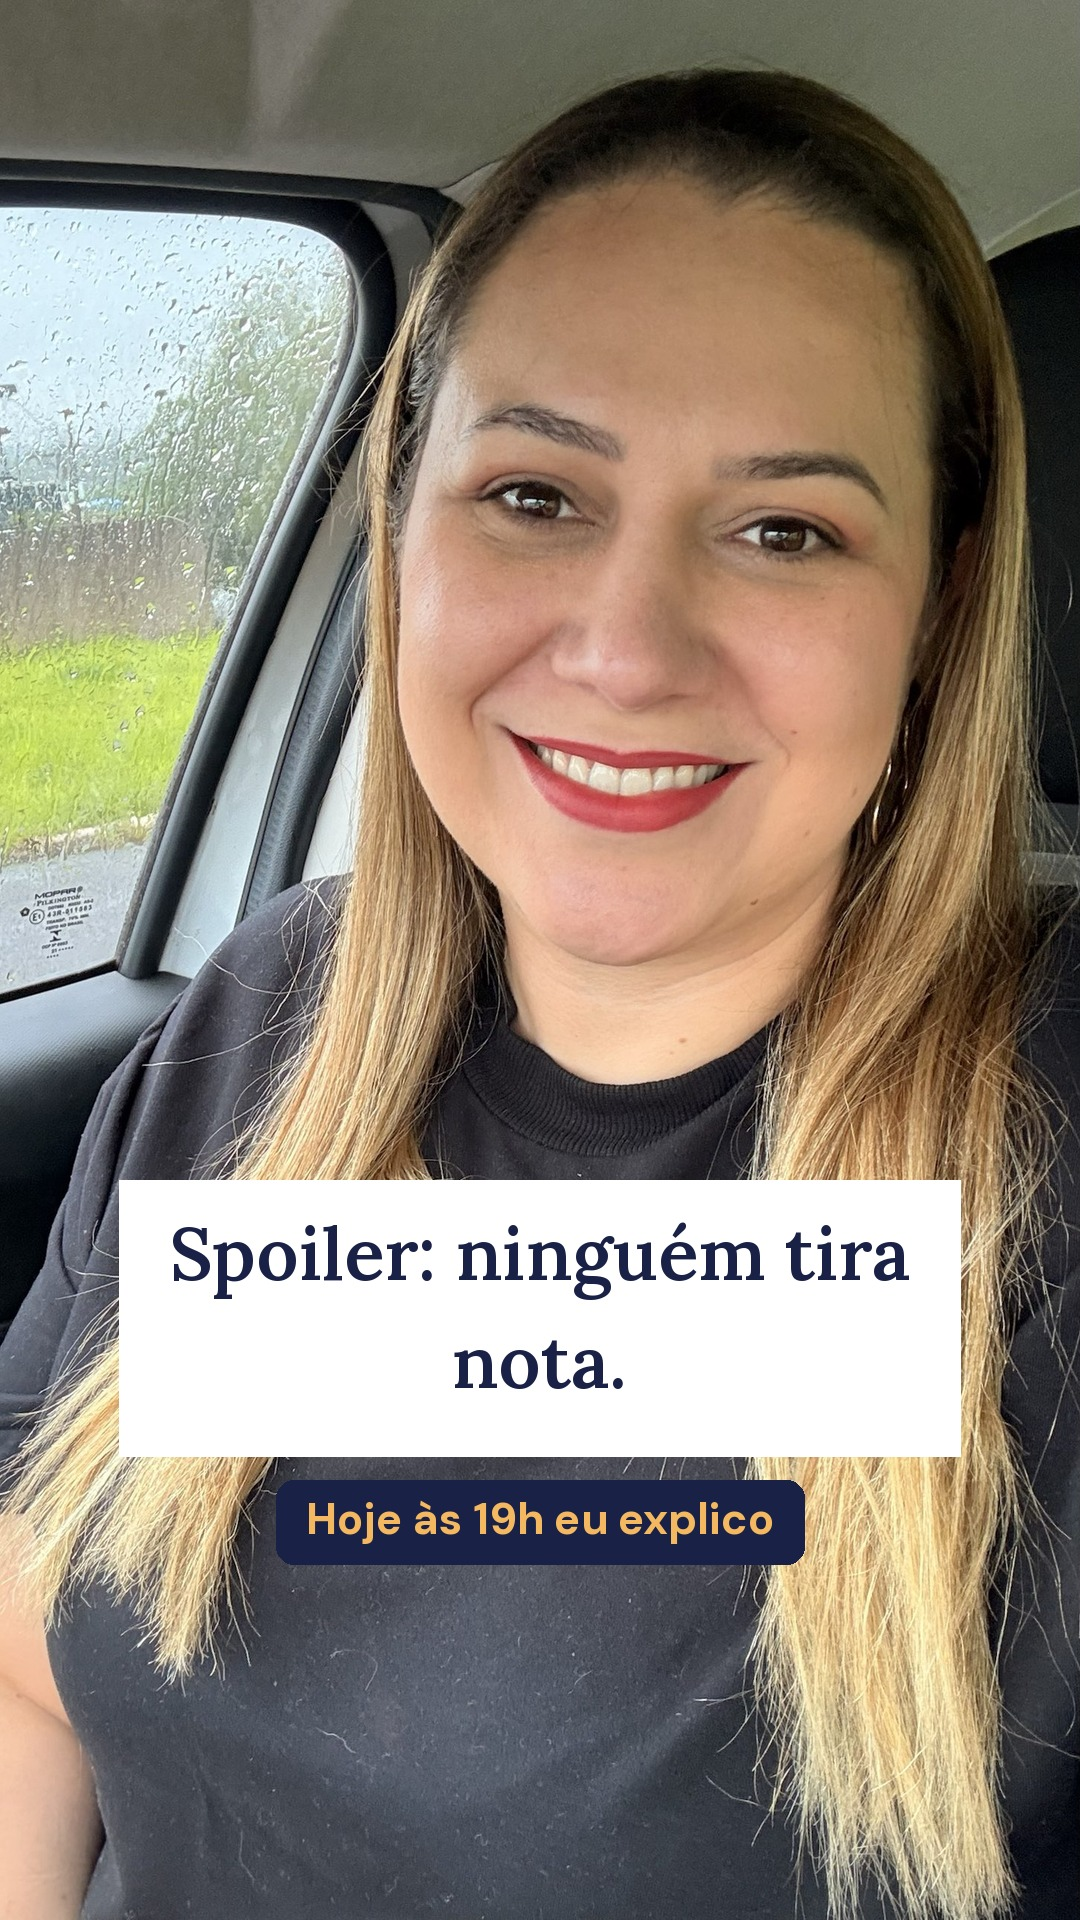
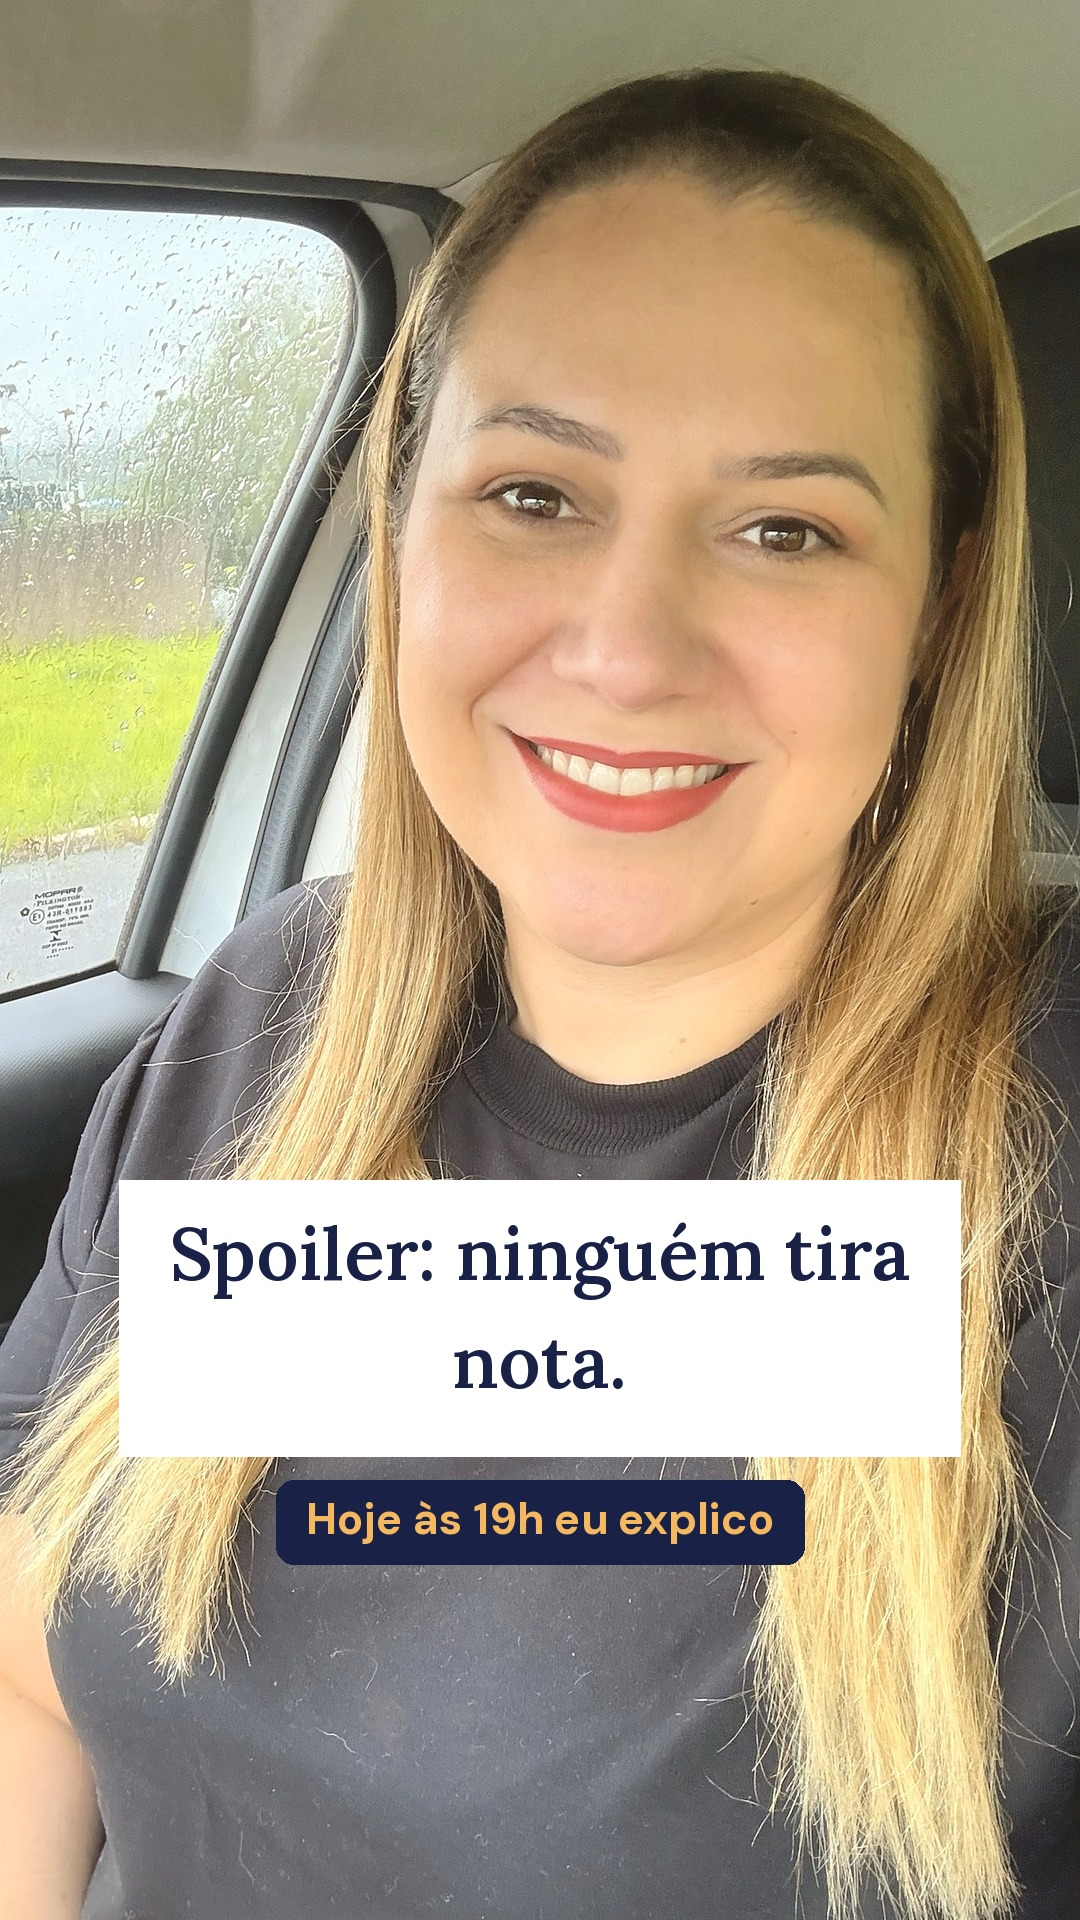
Fotos pessoais editadas, artes da manhã refeitas e passo a passo por dia
Claude-Session: https://claude.ai/code/session_01VWHfjDu9FDnoWU6tMJnwXm

diff --git a/stories-26-11/scripts/editar_fotos.py b/stories-26-11/scripts/editar_fotos.py
@@ -1,0 +1,30 @@
+# Edição das fotos pessoais (JPEG do iPhone): exposição automática, pele uniforme, brilho quente, nitidez.
+# Uso: python3 -I editar_fotos.py PASTA_ENTRADA PASTA_SAIDA
+import sys, os, glob, numpy as np, cv2
+from PIL import Image, ImageOps
+IN, OUT = sys.argv[1:3]; os.makedirs(OUT, exist_ok=True)
+def edit(rgb):
+    u8 = rgb.copy()
+    lab = cv2.cvtColor(u8, cv2.COLOR_RGB2LAB).astype(np.float32); L = lab[..., 0] / 255
+    g = np.clip(np.log(0.56) / np.log(max(np.median(L), 0.05)), 0.7, 1.1)    # leva o meio-tom para ~56%
+    L = L ** g
+    L = L + 0.10 * (1 - L) ** 3                                              # abre sombras (rosto)
+    L = 0.5 + (L - 0.5) * 1.05
+    lab[..., 0] = np.clip(L * 255, 0, 255)
+    lab[..., 1] = (lab[..., 1] - 128) * 0.95 + 128.5                         # pele menos avermelhada
+    lab[..., 2] = (lab[..., 2] - 128) * 1.05 + 133                           # tom mais quente
+    u8 = cv2.cvtColor(np.clip(lab, 0, 255).astype(np.uint8), cv2.COLOR_LAB2RGB)
+    # pele: separação de frequências (suaviza manchas, mantém textura fina)
+    f = u8.astype(np.float32); low = cv2.bilateralFilter(u8, 15, 35, 15).astype(np.float32)
+    detail = f - cv2.GaussianBlur(f, (0, 0), 1.2)
+    f = 0.55 * f + 0.45 * (low + detail * 0.8)
+    # brilho suave (glow) nas luzes
+    glow = cv2.GaussianBlur(f, (0, 0), 25); f = 255 - (255 - f) * (255 - glow * 0.18) / 255
+    u8 = np.clip(f, 0, 255).astype(np.uint8)
+    hsv = cv2.cvtColor(u8, cv2.COLOR_RGB2HSV).astype(np.float32); s = hsv[..., 1] / 255
+    hsv[..., 1] = np.clip((s + 0.12 * s * (1 - s)) * 255, 0, 255)
+    u8 = cv2.cvtColor(hsv.astype(np.uint8), cv2.COLOR_HSV2RGB)
+    return cv2.addWeighted(u8, 1.35, cv2.GaussianBlur(u8, (0, 0), 1.4), -0.35, 0)
+for p in sorted(glob.glob(f"{IN}/*.jpg")):
+    im = ImageOps.exif_transpose(Image.open(p)).convert("RGB")
+    Image.fromarray(edit(np.asarray(im))).save(f"{OUT}/{os.path.basename(p)}", quality=95)

diff --git a/stories-26-11/scripts/stories_manha.py b/stories-26-11/scripts/stories_manha.py
@@ -11,7 +11,7 @@ def wrap(f, txt, w):
         else: cur = t
     return L + [cur]
 def story(src, txt, sub, out, y, cx=0.5):
-    im = ImageOps.fit(ImageOps.exif_transpose(Image.open(f"{W}/pessoais/{src}")).convert("RGB"), (1080, 1920), centering=(cx, 0.5), method=Image.LANCZOS)
+    im = ImageOps.fit(ImageOps.exif_transpose(Image.open(f"{W}/pessoais_editadas/{src}")).convert("RGB"), (1080, 1920), centering=(cx, 0.5), method=Image.LANCZOS)
     d = ImageDraw.Draw(im); L = wrap(FL, txt, 820); asc = FL.getbbox("ÁgÇ"); lh = asc[3] - asc[1] + 18
     w = int(max(FL.getlength(l) for l in L)) + 100; h = len(L) * lh + 60; x = (1080 - w) // 2
     d.rectangle((x, y, x + w, y + h), fill="white"); yy = y + 30
@@ -23,7 +23,6 @@ def story(src, txt, sub, out, y, cx=0.5):
     im.save(f"{W}/out/{out}", quality=92)
 J = [("carro-chuva.jpg", "Spoiler: ninguém tira nota.", "Hoje às 19h eu explico", "2026-11-26 manha", 1180),
      ("retrato-cortina.jpg", "Sexta de sala aberta.", "Às 17h: como é a primeira sessão", "2026-11-27 manha", 1180, 0.55),
-     ("bar-janela.jpg", "Sábado sem pressa nenhuma.", "Às 19h: o antes e depois da sala", "2026-11-28 manha", 1260),
      ("escada.jpg", "Segunda pela escada.", "Hoje às 18h", "2026-11-30 manha", 250),
      ("cafe-copinho.jpg", "Primeiro café de dezembro.", "Às 20h: a primeira sessão aqui", "2026-12-01 manha", 1120),
      ("selfie-parede.jpg", "Quarta, cara lavada e sorriso.", "Às 20h eu respondo a caixinha", "2026-12-02 manha", 1230)]

diff --git a/stories-26-11/PROGRAMACAO.md b/stories-26-11/PROGRAMACAO.md
@@ -1,20 +1,67 @@
-# Stories · 26/11 a 02/12/2026
+# Stories · 26/11 a 02/12/2026 · passo a passo
 
-Máximo 3 por dia. Manhã = foto/vídeo seu (1 frase, até 1 emoji). Tarde = arte pronta + figurinha colocada por você. Noite = reel do dia (aviãozinho → Adicionar ao story).
+Máximo 3 por dia. O nome de cada arquivo traz a data e o horário (manhã, tarde, noite).
+Fotos pessoais editadas (luz, pele, cor quente, nitidez): pasta `fotos-editadas/`. Script: `scripts/editar_fotos.py`.
 
-| Dia | Manhã (8h–10h) · você fotografa | Tarde (12h–14h) · arte pronta | Noite |
-|---|---|---|---|
-| Qui 26/11 | ARTE PRONTA (foto no carro): "Spoiler: ninguém tira nota." + Hoje às 19h eu explico | CAIXINHA: Qual a sua dúvida sobre a avaliação de TDAH? | 19h reel TDAH é prova? |
-| Sex 27/11 | ARTE PRONTA (retrato na cortina): "Sexta de sala aberta." + Às 17h: como é a primeira sessão | ENQUETE em VÍDEO (balinha na sala, 3,5 s): Você já fez terapia? Já fiz / Ainda não · pôr figurinha Cosmópolis | 17h reel Medo da primeira sessão |
-| Sáb 28/11 | VÍDEO PRONTO (fachada, 6,5 s): "Por fora ela já está pronta." + Às 19h: o antes e depois · pôr figurinha Cosmópolis | ENQUETE: Você está recomeçando alguma coisa? Estou / Quero | 19h reel Antes e depois |
-| Dom 29/11 | Sem story de manhã (domingo de descanso) | ENQUETE: Seu domingo está sendo de descanso? Está / Que nada | 18h reel Descanso + arte PAUSA |
-| Seg 30/11 | ARTE PRONTA (escada): "Segunda pela escada." + Hoje às 18h | CAIXINHA: O que você mais esquece no dia a dia? | 18h reel Sempre se achou desorganizada? |
-| Ter 01/12 | ARTE PRONTA (copinho de café): "Primeiro café de dezembro." + Às 20h: a primeira sessão aqui | ENQUETE: Café ou água? Café / Água | 20h reel Primeira sessão aqui |
-| Qua 02/12 | ARTE PRONTA (selfie parede cinza): "Quarta, cara lavada e sorriso." + Às 20h eu respondo a caixinha | CAIXINHA: Qual a sua maior curiosidade sobre terapia? | 20h reel Psicóloga chora? |
+**Como colocar as figurinhas (no app do Instagram):**
+- **Enquete:** figurinha "Enquete" → apague a pergunta padrão (a pergunta já está na arte) → escreva as 2 opções → coloque no espaço livre, no meio ou embaixo.
+- **Caixinha:** figurinha "Perguntas" → apague o texto padrão e escreva "Me conta aqui" → coloque no meio da tela.
+- **Localização:** figurinha "Local" → Cosmópolis.
+- Nunca em cima do rosto.
+
+## Qui 26/11 (hoje)
+| Hora | Arquivo | O que fazer |
+|---|---|---|
+| Manhã | Story 2026-11-26 manha.jpg | Postar como está. |
+| 12h–14h | Story 2026-11-26 tarde CAIXINHA.jpg | **Caixinha** no meio. No dia seguinte, responda 2 ou 3 perguntas (sem dar diagnóstico). |
+| 19h | Reel "Avaliação de TDAH é uma prova?" | Aviãozinho → Adicionar ao story. |
+
+## Sex 27/11
+| Hora | Arquivo | O que fazer |
+|---|---|---|
+| Manhã | Story 2026-11-27 manha.jpg | Postar como está. |
+| 12h–14h | Story 2026-11-27 tarde ENQUETE.mp4 | **Enquete:** *Já fiz / Ainda não*, na parte de baixo. Localização Cosmópolis. |
+| 17h | Reel "Medo da primeira sessão?" | Aviãozinho → Adicionar ao story. |
+
+## Sáb 28/11
+| Hora | Arquivo | O que fazer |
+|---|---|---|
+| Manhã | Story 2026-11-28 manha.mp4 | Localização Cosmópolis. Música calma, se quiser. |
+| 12h–14h | Story 2026-11-28 tarde ENQUETE.jpg | **Enquete:** *Estou / Quero*, no meio. |
+| 19h | Reel "Antes e depois da sala" | Aviãozinho → Adicionar ao story. |
+
+## Dom 29/11 (sem story de manhã)
+| Hora | Arquivo | O que fazer |
+|---|---|---|
+| 12h–14h | Story 2026-11-29 tarde ENQUETE.jpg | **Enquete:** *Está / Que nada*, no meio. |
+| 18h | Reel "Você descansa de verdade?" | Aviãozinho → Adicionar ao story. |
+| Logo depois | Story 2026-11-29 noite PAUSA.jpg | Postar como está. |
+
+## Seg 30/11
+| Hora | Arquivo | O que fazer |
+|---|---|---|
+| Manhã | Story 2026-11-30 manha.jpg | Postar como está. |
+| 12h–14h | Story 2026-11-30 tarde CAIXINHA.jpg | **Caixinha** no meio. |
+| 18h | Reel "Sempre se achou desorganizada?" | Aviãozinho → Adicionar ao story. |
+
+## Ter 01/12
+| Hora | Arquivo | O que fazer |
+|---|---|---|
+| Manhã | Story 2026-12-01 manha.jpg | Postar como está. |
+| 12h–14h | Story 2026-12-01 tarde ENQUETE.jpg | **Enquete:** *Café / Água*, embaixo. Localização Cosmópolis. |
+| 20h | Reel "Como é a primeira sessão aqui?" | Aviãozinho → Adicionar ao story. |
+
+## Qua 02/12
+| Hora | Arquivo | O que fazer |
+|---|---|---|
+| Manhã | Story 2026-12-02 manha.jpg | Postar como está. |
+| 12h–14h | Story 2026-12-02 tarde CAIXINHA.jpg | **Caixinha** no meio. Localização Cosmópolis. |
+| 20h | Reel "Psicóloga chora com o paciente?" | Aviãozinho → Adicionar ao story. |
 
 Meta por story: 100 pessoas ou mais e 3 respostas ou mais. Balanço em 04/12.
 
-## Reserva
-- Foto do bar (reserva/Story reserva bar-janela.jpg): saiu do sábado, ficou no lugar o vídeo da fachada.
-- Foto do para-brisa na chuva (set/2026): guardar para um dia de chuva.
+## Reserva (não postar nesta semana)
+- `reserva/Story reserva bar-janela.jpg`: foto do bar, trocada pelo vídeo da fachada.
+- `reserva/Story 2026-11-27 tarde ENQUETE (versao foto).jpg`: trocada pelo vídeo da balinha.
+- Para-brisa na chuva (set/2026): guardar para um dia de chuva.
 - Retrato de perfil (Meta AI): não usar. Olhos fechados e foto editada por IA.
